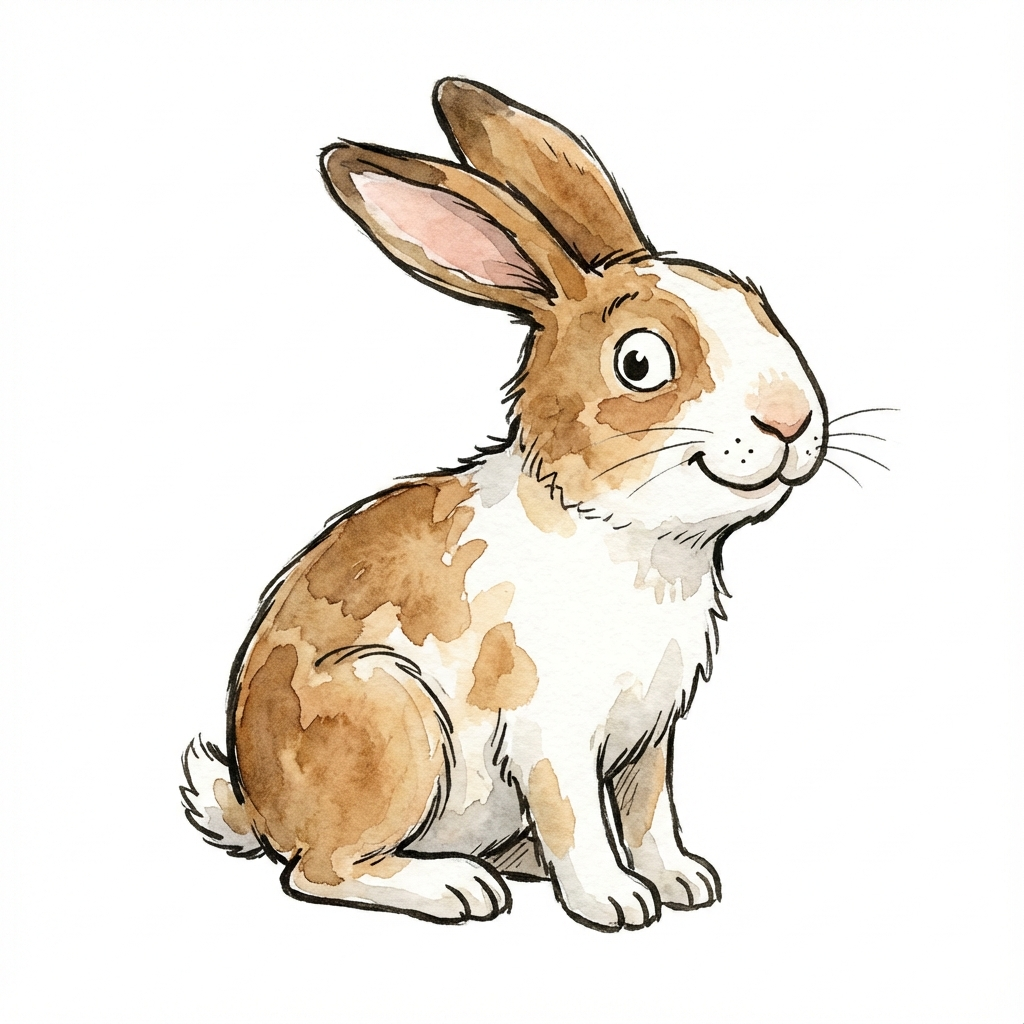
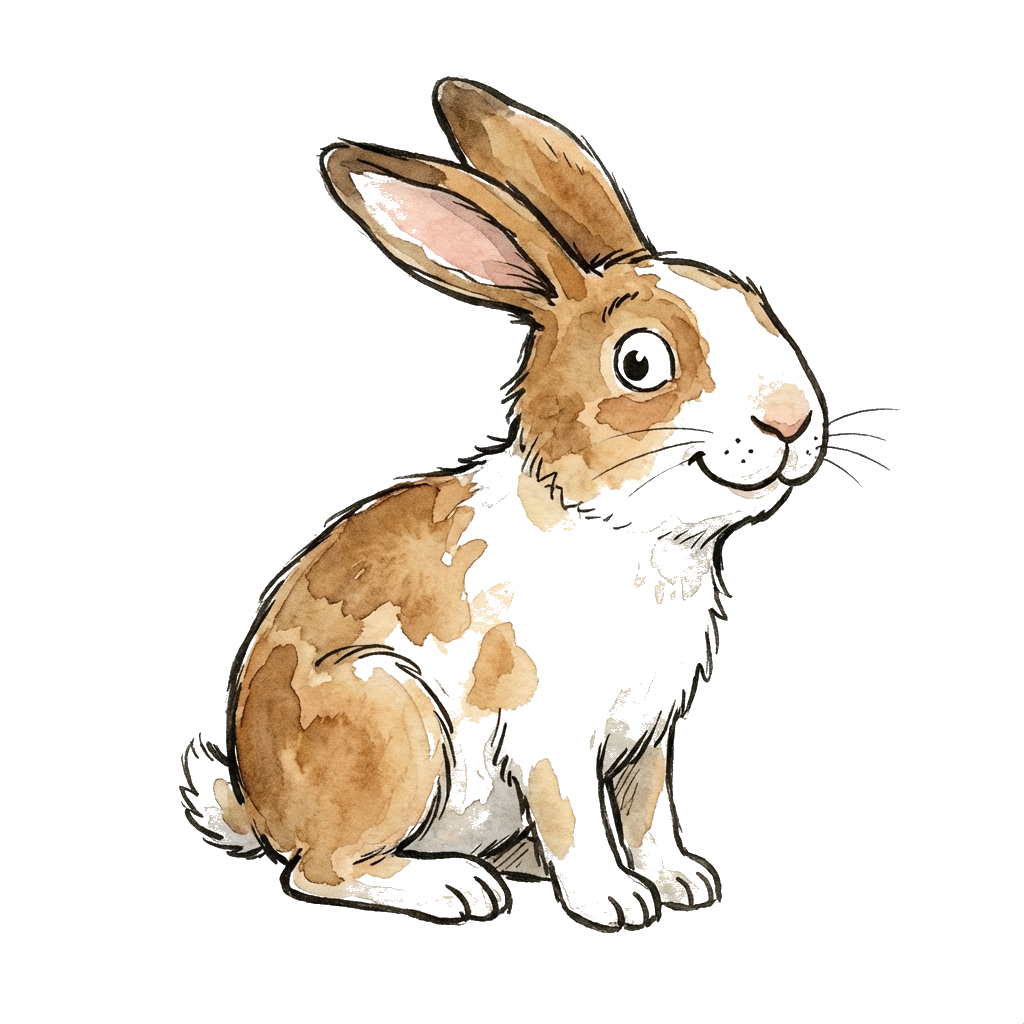
fix: Update rabbit image transparency and position rabbits to avoid overlapping content

diff --git a/index.html b/index.html
@@ -557,7 +557,8 @@
     <div class="book-container">
         <!-- Page 1: Title -->
         <div class="page active">
-            <img src="rabbit.png" class="hidden-rabbit" style="bottom: 150px; left: 20px;" onclick="foundRabbit(this)">
+            <img src="rabbit.png" class="hidden-rabbit" style="bottom: 85px; left: 20px; transform: rotate(10deg);"
+                onclick="foundRabbit(this)">
             <div class="illustration" onclick="animateElement(this, 'wiggle')">
                 <img src="worner.png" alt="Wally Worner" class="anim-float click-wiggle">
             </div>
@@ -577,7 +578,8 @@
 
         <!-- Page 2: The Call -->
         <div class="page">
-            <img src="rabbit.png" class="hidden-rabbit" style="top: 50px; right: 40px;" onclick="foundRabbit(this)">
+            <img src="rabbit.png" class="hidden-rabbit" style="top: 20px; right: 20px; transform: rotate(-5deg);"
+                onclick="foundRabbit(this)">
             <div class="illustration" onclick="animateElement(this, 'wiggle')">
                 <img src="castle.png" alt="Castle" class="anim-float click-wiggle">
             </div>
@@ -600,7 +602,8 @@
 
         <!-- Page 3: The Voyage -->
         <div class="page">
-            <img src="rabbit.png" class="hidden-rabbit" style="bottom: 120px; right: 10px;" onclick="foundRabbit(this)">
+            <img src="rabbit.png" class="hidden-rabbit" style="top: 140px; left: 40px; opacity: 0.8;"
+                onclick="foundRabbit(this)">
             <div class="illustration" onclick="animateElement(this, 'sail')">
                 <img src="ship.png" alt="Ship" class="anim-sail click-wiggle">
             </div>
@@ -621,7 +624,7 @@
 
         <!-- Page 4: Meeting Valette -->
         <div class="page">
-            <img src="rabbit.png" class="hidden-rabbit" style="top: 10px; left: 10px;" onclick="foundRabbit(this)">
+            <img src="rabbit.png" class="hidden-rabbit" style="bottom: 110px; right: 30px;" onclick="foundRabbit(this)">
             <div class="illustration" onclick="animateElement(this, 'wiggle')">
                 <img src="fortress.png" alt="Fortress" class="click-wiggle">
             </div>
@@ -641,7 +644,8 @@
 
         <!-- Page 5: Senglea -->
         <div class="page">
-            <img src="rabbit.png" class="hidden-rabbit" style="top: 80px; left: 50%;" onclick="foundRabbit(this)">
+            <img src="rabbit.png" class="hidden-rabbit" style="top: 20px; left: 20px; transform: rotate(15deg);"
+                onclick="foundRabbit(this)">
             <div class="illustration" onclick="animateElement(this, 'glow')">
                 <img src="house_stella.png" alt="Stella House" class="anim-glow click-glow">
             </div>
@@ -661,7 +665,8 @@
 
         <!-- Page 6: The Battle -->
         <div class="page">
-            <img src="rabbit.png" class="hidden-rabbit" style="bottom: 120px; left: 10px;" onclick="foundRabbit(this)">
+            <img src="rabbit.png" class="hidden-rabbit" style="bottom: 20px; left: 50%; transform: translateX(-50%);"
+                onclick="foundRabbit(this)">
             <div class="illustration" onclick="animateElement(this, 'shake')">
                 <img src="battle.png" alt="Battle" class="anim-battle click-wiggle">
             </div>
@@ -681,7 +686,7 @@
 
         <!-- Page 7: The Gift -->
         <div class="page">
-            <img src="rabbit.png" class="hidden-rabbit" style="top: 40px; right: 40px;" onclick="foundRabbit(this)">
+            <img src="rabbit.png" class="hidden-rabbit" style="top: 30px; left: 50px;" onclick="foundRabbit(this)">
             <div class="illustration" onclick="animateElement(this, 'glow')">
                 <img src="house_stella.png" alt="Stella House" class="anim-glow click-glow">
             </div>
@@ -703,7 +708,7 @@
 
         <!-- Page 8: The Legacy -->
         <div class="page">
-            <img src="rabbit.png" class="hidden-rabbit" style="top: 200px; left: 10%;" onclick="foundRabbit(this)">
+            <img src="rabbit.png" class="hidden-rabbit" style="bottom: 20px; right: 20px;" onclick="foundRabbit(this)">
             <div class="illustration">
                 <div class="illustration-group">
                     <img src="worner.png" alt="Sir Worner" class="anim-float page8-knight click-wiggle"

diff --git a/remove_bg.py b/remove_bg.py
@@ -1,0 +1,20 @@
+from PIL import Image
+
+def remove_white_background(input_path, output_path, tolerance=200):
+    img = Image.open(input_path)
+    img = img.convert("RGBA")
+    datas = img.getdata()
+
+    newData = []
+    for item in datas:
+        # Check if the pixel is nearly white
+        if item[0] > tolerance and item[1] > tolerance and item[2] > tolerance:
+            newData.append((255, 255, 255, 0))  # Make transparent
+        else:
+            newData.append(item)
+
+    img.putdata(newData)
+    img.save(output_path, "PNG")
+    print(f"Saved transparent image to {output_path}")
+
+remove_white_background('rabbit.png', 'rabbit.png')
